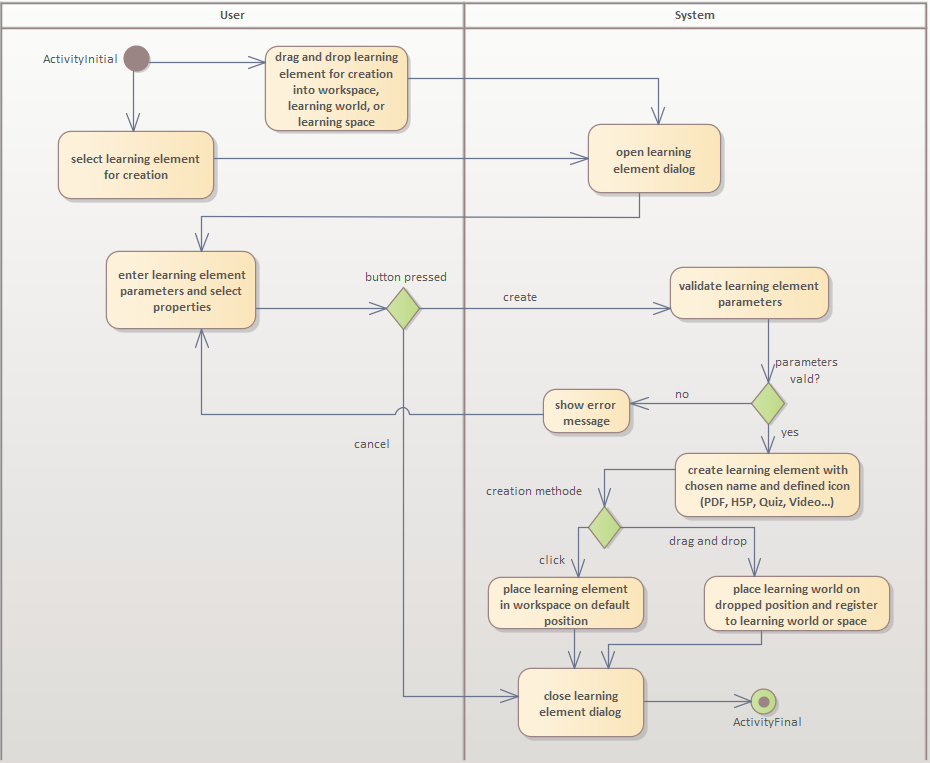
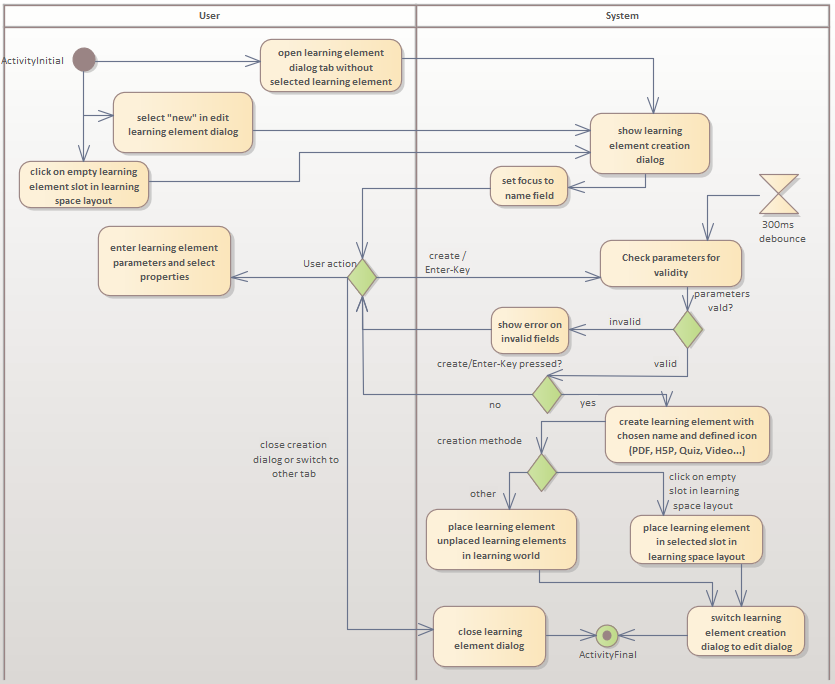
added diagrams: - Lernelement erstellen - Lernelement bearbeiten - Lernelement löschen

Changed region(s): [[0.0, 0.0, 1.0, 1.0], [0.3114, 0.3377, 0.5916, 0.9211], [0.4982, 0.4605, 0.5293, 0.4912]]

diff --git a/AdLerDokumentation/Writerside/topics/AWA0002.md b/AdLerDokumentation/Writerside/topics/AWA0002.md
@@ -14,5 +14,3 @@ Das Autorentool muss Lehrenden die Möglichkeit bieten, ein Lernelement zu erste
 ## Aktivitätsdiagramm:
 
 ![imageAktivitätsdiagrammLernelementErstellen](imageAktivitätsdiagrammLernelementErstellen.png)
-
-Zuordnung zu Lernwelt/Lernraum (Muss noch im Akti abgebildet werden.)

diff --git a/AdLerDokumentation/Writerside/topics/AWA0016.md b/AdLerDokumentation/Writerside/topics/AWA0016.md
@@ -10,4 +10,6 @@ Beim Löschen eines Lernelements wird dieses aus der das Lernelement enthaltende
 
 ## Aktivitätsdiagramm:
 
+![imageAktivitätsdiagrammLernelementLöschen](imageAktivitätsdiagrammLernelementLöschen.png)
 
+Bestätigungsdialog fehlt im Autorentool!

diff --git a/AdLerDokumentation/Writerside/topics/AWA0015.md b/AdLerDokumentation/Writerside/topics/AWA0015.md
@@ -13,4 +13,4 @@ Das Autorentool muss Lehrenden die Möglichkeit bieten, ein bestehendes Lernelem
 
 ## Aktivitätsdiagramm:
 
-
+![imageAktivitätsdiagrammLernelementBearbeiten](imageAktivitätsdiagrammLernelementBearbeiten.png)
